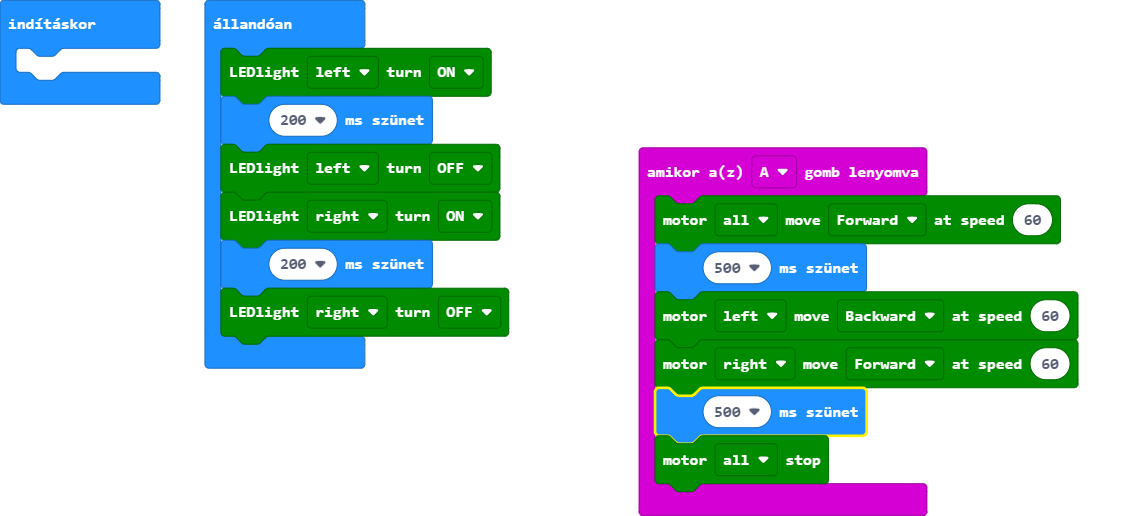
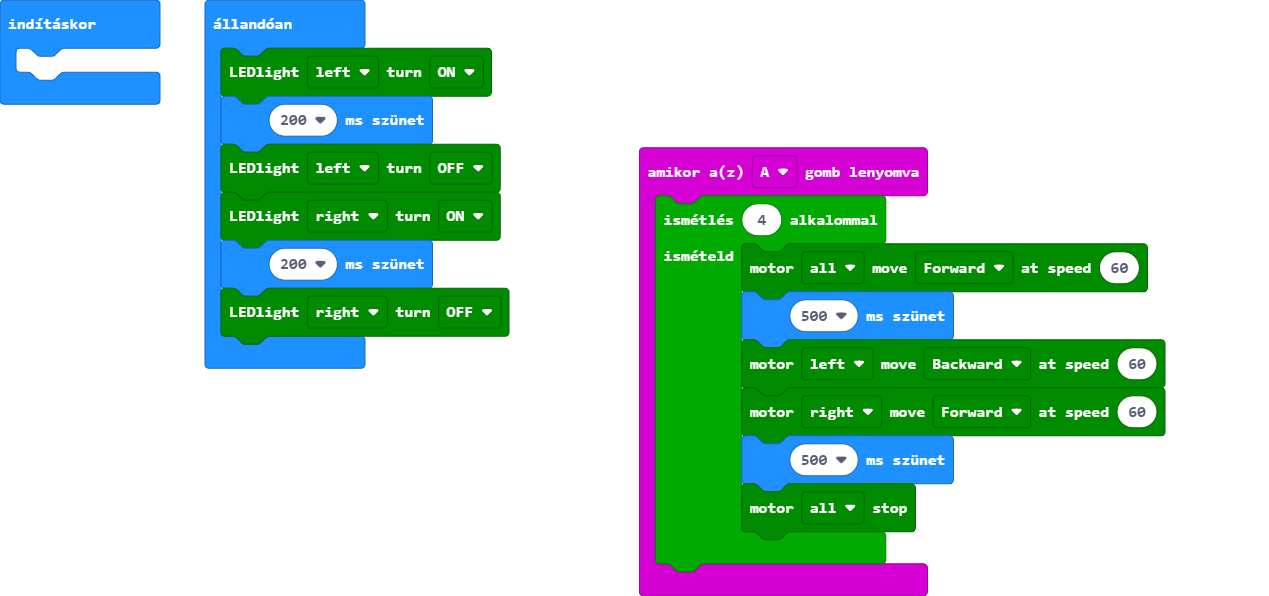
pxt.json, main.blocks, main.ts frissítése

diff --git a/main.ts b/main.ts
@@ -1,10 +1,12 @@
 input.onButtonPressed(Button.A, function () {
-    maqueen.motorRun(maqueen.Motors.All, maqueen.Dir.CW, 60)
-    basic.pause(500)
-    maqueen.motorRun(maqueen.Motors.M1, maqueen.Dir.CCW, 60)
-    maqueen.motorRun(maqueen.Motors.M2, maqueen.Dir.CW, 60)
-    basic.pause(500)
-    maqueen.motorStop(maqueen.Motors.All)
+    for (let index = 0; index < 4; index++) {
+        maqueen.motorRun(maqueen.Motors.All, maqueen.Dir.CW, 60)
+        basic.pause(500)
+        maqueen.motorRun(maqueen.Motors.M1, maqueen.Dir.CCW, 60)
+        maqueen.motorRun(maqueen.Motors.M2, maqueen.Dir.CW, 60)
+        basic.pause(500)
+        maqueen.motorStop(maqueen.Motors.All)
+    }
 })
 basic.forever(function () {
     maqueen.writeLED(maqueen.LED.LEDLeft, maqueen.LEDswitch.turnOn)
